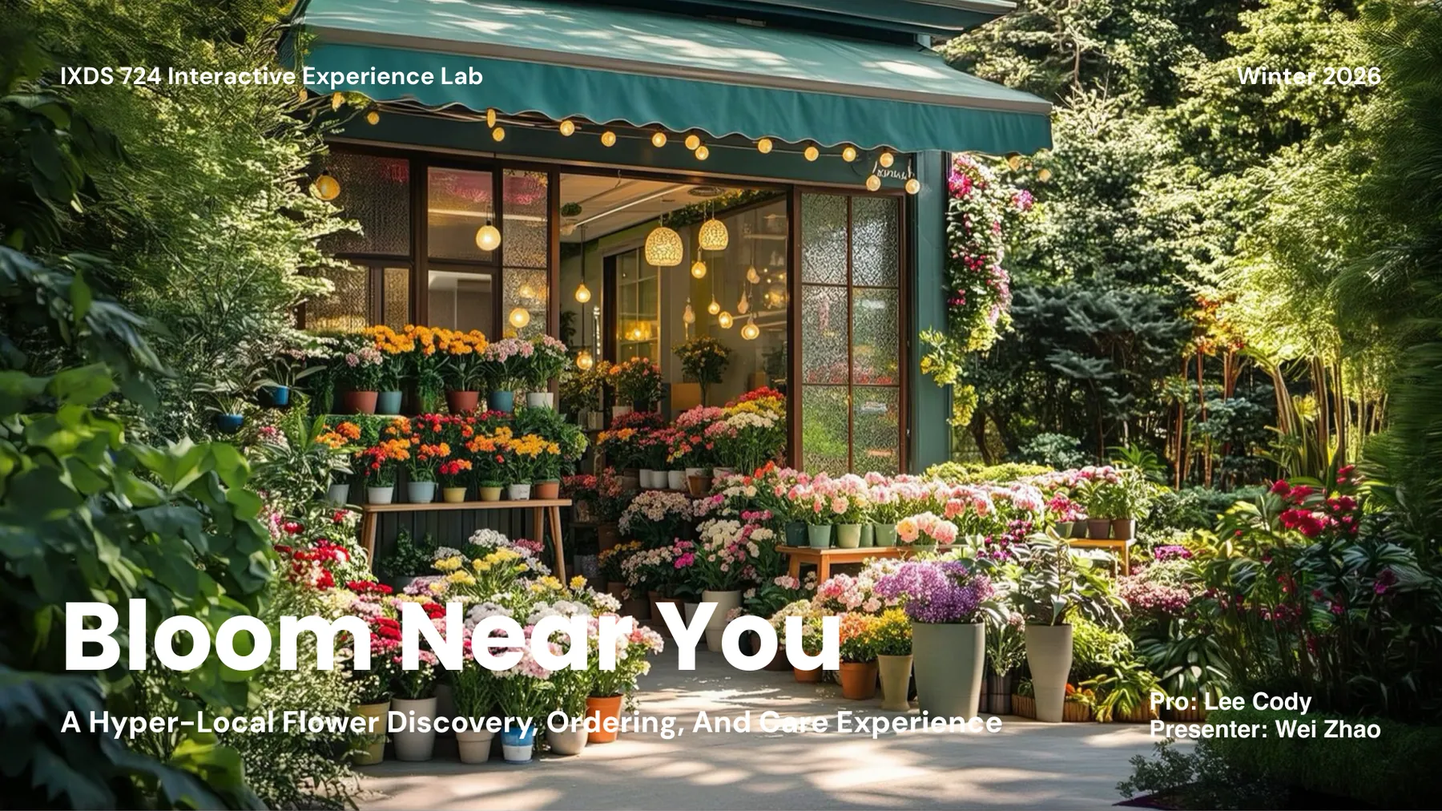
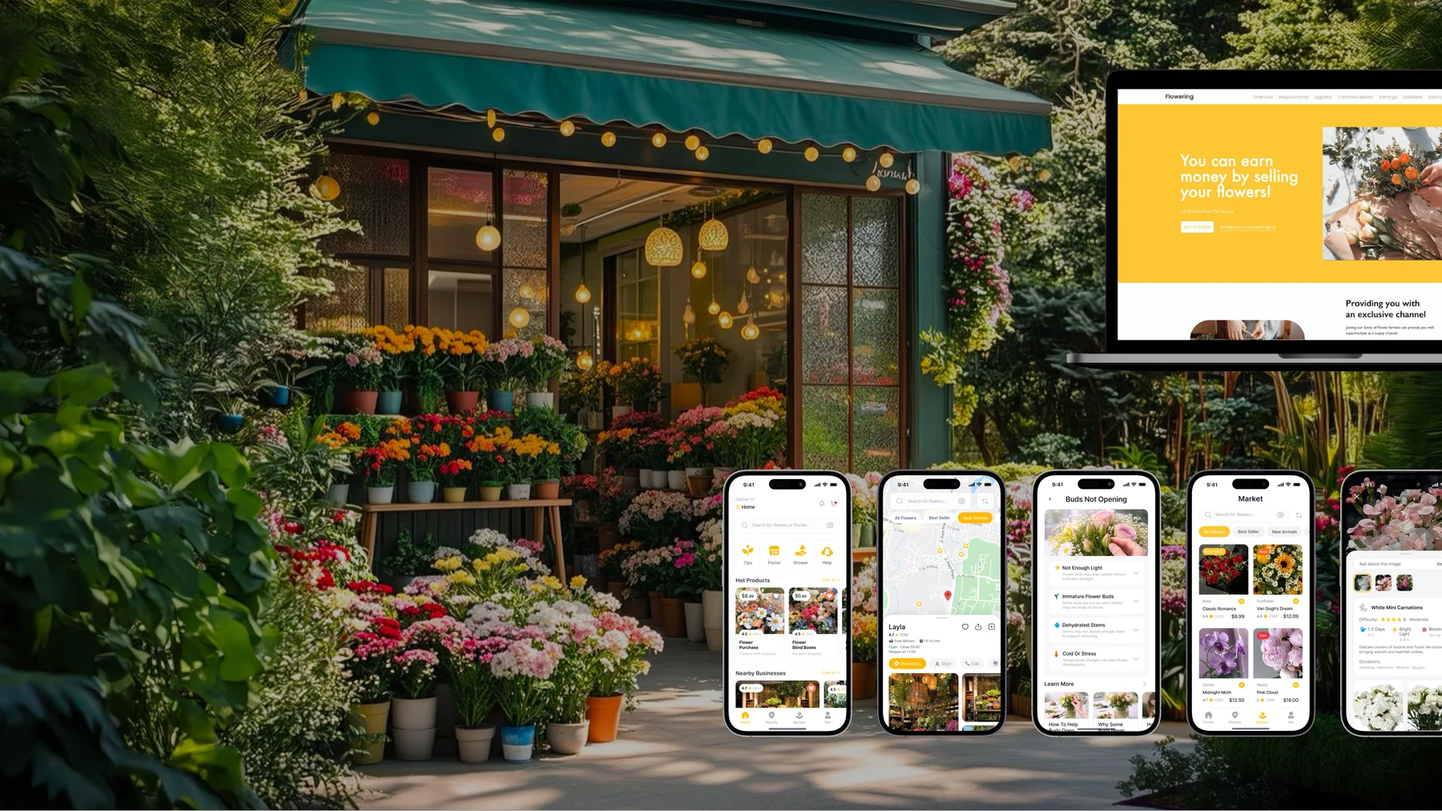
New scene hero images for PetSignals, Closetify and Bloom Near You
Claude-Session: https://claude.ai/code/session_01Dkuoh5qXSQDsoVuafdGbwV

diff --git a/works/closetify.html b/works/closetify.html
@@ -33,7 +33,7 @@ try{if(!sessionStorage.getItem('wz-loaded')&&!matchMedia('(prefers-reduced-motio
 <main class="project">
   <section class="meta"><div class="m-row"><span><span class="l-zh" lang="zh-Hans-CN">项目类型</span><span class="l-en" lang="en">Project type</span></span><span class="span2"><span class="l-zh" lang="zh-Hans-CN">AI 产品 MVP 项目</span><span class="l-en" lang="en">AI product MVP</span></span></div><div class="m-row"><span><span class="l-zh" lang="zh-Hans-CN">项目名称</span><span class="l-en" lang="en">Project name</span></span><span class="span2"><span class="l-zh" lang="zh-Hans-CN">CLOSETIFY｜AI 个性化穿搭助手</span><span class="l-en" lang="en">CLOSETIFY — AI Outfit Assistant</span></span></div><div class="m-row"><span><span class="l-zh" lang="zh-Hans-CN">分类</span><span class="l-en" lang="en">Category</span></span><span class="span2"><span class="tag">[<span class="l-zh" lang="zh-Hans-CN">AI</span><span class="l-en" lang="en">AI</span>]</span><span class="tag">[<span class="l-zh" lang="zh-Hans-CN">交互设计</span><span class="l-en" lang="en">Interaction design</span>]</span><span class="tag">[<span class="l-zh" lang="zh-Hans-CN">MVP</span><span class="l-en" lang="en">MVP</span>]</span></span></div><div class="m-row"><span><span class="l-zh" lang="zh-Hans-CN">时间</span><span class="l-en" lang="en">Date</span></span><span class="span2">11.2025</span></div></section>
   <div class="p-grid">
-    <div class="p-main"><figure class="fig"><img src="../images/closetify/00-hero.webp?v=1794459655" width="1800" height="1009" alt=""></figure><div class="sec-head"><span>01</span><span><span class="l-zh" lang="zh-Hans-CN">研究与情绪旅程</span><span class="l-en" lang="en">Research &amp; emotional journey</span></span><span class="sec-text"></span></div><div class="figs figs-stack"><figure class="fig"><img src="../images/closetify/01.webp?v=1794459651" width="1800" height="1009" alt="" loading="lazy" decoding="async"></figure><figure class="fig"><img src="../images/closetify/02.webp?v=1794459651" width="1800" height="1009" alt="" loading="lazy" decoding="async"></figure><figure class="fig"><img src="../images/closetify/03.webp?v=1794459652" width="1800" height="1009" alt="" loading="lazy" decoding="async"></figure></div><div class="sec-head"><span>02</span><span><span class="l-zh" lang="zh-Hans-CN">构思与原型</span><span class="l-en" lang="en">Ideation &amp; prototyping</span></span><span class="sec-text"></span></div><div class="figs figs-stack"><figure class="fig"><img src="../images/closetify/04.webp?v=1794459652" width="1800" height="1009" alt="" loading="lazy" decoding="async"></figure><figure class="fig"><img src="../images/closetify/05.webp?v=1794459652" width="1800" height="1009" alt="" loading="lazy" decoding="async"></figure><figure class="fig"><img src="../images/closetify/06.webp?v=1794459652" width="1800" height="1009" alt="" loading="lazy" decoding="async"></figure></div><div class="sec-head"><span>03</span><span><span class="l-zh" lang="zh-Hans-CN">可用性测试</span><span class="l-en" lang="en">Usability testing</span></span><span class="sec-text"><span class="l-zh" lang="zh-Hans-CN">三个核心任务中，“添加衣物到数字衣橱”的成功率只有 33%，问题集中在扫描图标含义不清和入口位置。</span><span class="l-en" lang="en">Of three core tasks, &#x27;add items to the wardrobe&#x27; had only a 33% success rate — the scan icon was unclear and the entry hard to find.</span></span></div><div class="figs figs-stack"><figure class="fig"><img src="../images/closetify/07.webp?v=1794459653" width="1800" height="1009" alt="" loading="lazy" decoding="async"></figure><figure class="fig"><img src="../images/closetify/08.webp?v=1794459653" width="1800" height="1009" alt="" loading="lazy" decoding="async"></figure><figure class="fig"><img src="../images/closetify/09.webp?v=1794459653" width="1800" height="1009" alt="" loading="lazy" decoding="async"></figure></div><div class="sec-head"><span>04</span><span><span class="l-zh" lang="zh-Hans-CN">核心功能</span><span class="l-en" lang="en">Key features</span></span><span class="sec-text"></span></div><div class="figs figs-stack"><figure class="fig"><img src="../images/closetify/10.webp?v=1794459653" width="1800" height="1009" alt="" loading="lazy" decoding="async"></figure><figure class="fig"><img src="../images/closetify/11.webp?v=1794459654" width="1800" height="1009" alt="" loading="lazy" decoding="async"></figure><figure class="fig"><img src="../images/closetify/12.webp?v=1794459654" width="1800" height="1009" alt="" loading="lazy" decoding="async"></figure><figure class="fig"><img src="../images/closetify/13.webp?v=1794459654" width="1800" height="1009" alt="" loading="lazy" decoding="async"></figure><figure class="fig"><img src="../images/closetify/14.webp?v=1794459654" width="1800" height="1009" alt="" loading="lazy" decoding="async"></figure></div><div class="sec-head"><span>05</span><span><span class="l-zh" lang="zh-Hans-CN">最终设计与反思</span><span class="l-en" lang="en">Final design &amp; reflection</span></span><span class="sec-text"></span></div><div class="figs figs-stack"><figure class="fig"><img src="../images/closetify/15.webp?v=1794459655" width="1800" height="1009" alt="" loading="lazy" decoding="async"></figure><figure class="fig"><img src="../images/closetify/16.webp?v=1794459655" width="1800" height="1009" alt="" loading="lazy" decoding="async"></figure></div></div>
+    <div class="p-main"><figure class="fig"><img src="../images/closetify/00-hero.webp?v=1794636600" width="1800" height="1012" alt=""></figure><div class="sec-head"><span>01</span><span><span class="l-zh" lang="zh-Hans-CN">研究与情绪旅程</span><span class="l-en" lang="en">Research &amp; emotional journey</span></span><span class="sec-text"></span></div><div class="figs figs-stack"><figure class="fig"><img src="../images/closetify/01.webp?v=1794459651" width="1800" height="1009" alt="" loading="lazy" decoding="async"></figure><figure class="fig"><img src="../images/closetify/02.webp?v=1794459651" width="1800" height="1009" alt="" loading="lazy" decoding="async"></figure><figure class="fig"><img src="../images/closetify/03.webp?v=1794459652" width="1800" height="1009" alt="" loading="lazy" decoding="async"></figure></div><div class="sec-head"><span>02</span><span><span class="l-zh" lang="zh-Hans-CN">构思与原型</span><span class="l-en" lang="en">Ideation &amp; prototyping</span></span><span class="sec-text"></span></div><div class="figs figs-stack"><figure class="fig"><img src="../images/closetify/04.webp?v=1794459652" width="1800" height="1009" alt="" loading="lazy" decoding="async"></figure><figure class="fig"><img src="../images/closetify/05.webp?v=1794459652" width="1800" height="1009" alt="" loading="lazy" decoding="async"></figure><figure class="fig"><img src="../images/closetify/06.webp?v=1794459652" width="1800" height="1009" alt="" loading="lazy" decoding="async"></figure></div><div class="sec-head"><span>03</span><span><span class="l-zh" lang="zh-Hans-CN">可用性测试</span><span class="l-en" lang="en">Usability testing</span></span><span class="sec-text"><span class="l-zh" lang="zh-Hans-CN">三个核心任务中，“添加衣物到数字衣橱”的成功率只有 33%，问题集中在扫描图标含义不清和入口位置。</span><span class="l-en" lang="en">Of three core tasks, &#x27;add items to the wardrobe&#x27; had only a 33% success rate — the scan icon was unclear and the entry hard to find.</span></span></div><div class="figs figs-stack"><figure class="fig"><img src="../images/closetify/07.webp?v=1794459653" width="1800" height="1009" alt="" loading="lazy" decoding="async"></figure><figure class="fig"><img src="../images/closetify/08.webp?v=1794459653" width="1800" height="1009" alt="" loading="lazy" decoding="async"></figure><figure class="fig"><img src="../images/closetify/09.webp?v=1794459653" width="1800" height="1009" alt="" loading="lazy" decoding="async"></figure></div><div class="sec-head"><span>04</span><span><span class="l-zh" lang="zh-Hans-CN">核心功能</span><span class="l-en" lang="en">Key features</span></span><span class="sec-text"></span></div><div class="figs figs-stack"><figure class="fig"><img src="../images/closetify/10.webp?v=1794459653" width="1800" height="1009" alt="" loading="lazy" decoding="async"></figure><figure class="fig"><img src="../images/closetify/11.webp?v=1794459654" width="1800" height="1009" alt="" loading="lazy" decoding="async"></figure><figure class="fig"><img src="../images/closetify/12.webp?v=1794459654" width="1800" height="1009" alt="" loading="lazy" decoding="async"></figure><figure class="fig"><img src="../images/closetify/13.webp?v=1794459654" width="1800" height="1009" alt="" loading="lazy" decoding="async"></figure><figure class="fig"><img src="../images/closetify/14.webp?v=1794459654" width="1800" height="1009" alt="" loading="lazy" decoding="async"></figure></div><div class="sec-head"><span>05</span><span><span class="l-zh" lang="zh-Hans-CN">最终设计与反思</span><span class="l-en" lang="en">Final design &amp; reflection</span></span><span class="sec-text"></span></div><div class="figs figs-stack"><figure class="fig"><img src="../images/closetify/15.webp?v=1794459655" width="1800" height="1009" alt="" loading="lazy" decoding="async"></figure><figure class="fig"><img src="../images/closetify/16.webp?v=1794459655" width="1800" height="1009" alt="" loading="lazy" decoding="async"></figure></div></div>
     <aside class="p-side"><div class="sticky"><p><span class="l-zh" lang="zh-Hans-CN">CLOSETIFY 是一个基于 AI 的个性化穿搭助手，帮助用户根据衣橱单品、天气、日程与个人风格生成更适合当下场景的穿搭建议。项目围绕数字衣橱管理、智能推荐与日常决策体验展开，探索 AI 如何降低用户的选择成本，并将个人审美、生活场景与实用需求整合到更自然的穿搭流程中。</span><span class="l-en" lang="en">CLOSETIFY is an AI outfit assistant that suggests looks based on the user&#x27;s wardrobe, weather, schedule and personal style. Built around digital wardrobe management, smart recommendations and everyday decisions, it explores how AI can lower the cost of choosing and bring taste, context and practical needs into a more natural dressing routine.</span></p></div></aside>
   </div>
   <section class="meta p-foot"><div class="m-row"><span><span class="l-zh" lang="zh-Hans-CN">CREDITS</span><span class="l-en" lang="en">CREDITS</span></span><span class="span2"><span class="l-zh" lang="zh-Hans-CN">产品体验设计｜AI 功能设计｜MVP 原型实现｜界面设计｜研究整合</span><span class="l-en" lang="en">Product design | AI feature design | MVP build | UI | Research synthesis</span></span></div><div class="m-row"><span><span class="l-zh" lang="zh-Hans-CN">项目性质</span><span class="l-en" lang="en">Format</span></span><span class="span2"><span class="l-zh" lang="zh-Hans-CN">课程项目 · 3 人团队</span><span class="l-en" lang="en">Course project · Team of 3</span></span></div><div class="m-row"><span><span class="l-zh" lang="zh-Hans-CN">团队</span><span class="l-en" lang="en">Team</span></span><span class="span2"><span class="l-zh" lang="zh-Hans-CN">Qing Niu、Wei Zhao、Dingrui Yu</span><span class="l-en" lang="en">Qing Niu, Wei Zhao, Dingrui Yu</span></span></div><div class="m-row"><span><span class="l-zh" lang="zh-Hans-CN">课程</span><span class="l-en" lang="en">Course</span></span><span class="span2">IXDS 710 Human Experience Prototyping · SCAD</span></div><div class="m-row"><span><span class="l-zh" lang="zh-Hans-CN">周期</span><span class="l-en" lang="en">Timeline</span></span><span class="span2">2025.09 – 2025.11</span></div><div class="m-row"><span><span class="l-zh" lang="zh-Hans-CN">工具</span><span class="l-en" lang="en">Tools</span></span><span class="span2">Figma · Interviews · Usability testing</span></div><div class="m-row pager"><span></span><span class="span2"><a href="bloom-near-you.html">‹ PREVIOUS</a><a href="mood-candy.html">NEXT ›</a></span></div></section>

diff --git a/works/petsignals.html b/works/petsignals.html
@@ -33,7 +33,7 @@ try{if(!sessionStorage.getItem('wz-loaded')&&!matchMedia('(prefers-reduced-motio
 <main class="project">
   <section class="meta"><div class="m-row"><span><span class="l-zh" lang="zh-Hans-CN">项目类型</span><span class="l-en" lang="en">Project type</span></span><span class="span2"><span class="l-zh" lang="zh-Hans-CN">AI 产品 MVP 项目</span><span class="l-en" lang="en">AI product MVP</span></span></div><div class="m-row"><span><span class="l-zh" lang="zh-Hans-CN">项目名称</span><span class="l-en" lang="en">Project name</span></span><span class="span2"><span class="l-zh" lang="zh-Hans-CN">PETSIGNALS｜AI 宠物身体信号分析助手</span><span class="l-en" lang="en">PETSIGNALS — Translating Pet Body Language</span></span></div><div class="m-row"><span><span class="l-zh" lang="zh-Hans-CN">分类</span><span class="l-en" lang="en">Category</span></span><span class="span2"><span class="tag">[<span class="l-zh" lang="zh-Hans-CN">AI</span><span class="l-en" lang="en">AI</span>]</span><span class="tag">[<span class="l-zh" lang="zh-Hans-CN">LLM</span><span class="l-en" lang="en">LLM</span>]</span><span class="tag">[<span class="l-zh" lang="zh-Hans-CN">交互设计</span><span class="l-en" lang="en">Interaction design</span>]</span><span class="tag">[<span class="l-zh" lang="zh-Hans-CN">数据库</span><span class="l-en" lang="en">Database</span>]</span><span class="tag">[<span class="l-zh" lang="zh-Hans-CN">MVP</span><span class="l-en" lang="en">MVP</span>]</span></span></div><div class="m-row"><span><span class="l-zh" lang="zh-Hans-CN">时间</span><span class="l-en" lang="en">Date</span></span><span class="span2">03.2026</span></div></section>
   <div class="p-grid">
-    <div class="p-main"><figure class="fig"><img src="../images/petsignals/00-hero.webp?v=1794459638" width="1800" height="1012" alt=""></figure><div class="sec-head"><span>01</span><span><span class="l-zh" lang="zh-Hans-CN">问题与机会</span><span class="l-en" lang="en">Problem &amp; opportunity</span></span><span class="sec-text"></span></div><div class="figs figs-stack"><figure class="fig"><img src="../images/petsignals/01.webp?v=1794459637" width="1800" height="1012" alt="" loading="lazy" decoding="async"></figure><figure class="fig"><img src="../images/petsignals/02.webp?v=1794459637" width="1800" height="1012" alt="" loading="lazy" decoding="async"></figure></div><div class="sec-head"><span>02</span><span><span class="l-zh" lang="zh-Hans-CN">核心流程与 MVP 范围</span><span class="l-en" lang="en">Core flow &amp; MVP scope</span></span><span class="sec-text"><span class="l-zh" lang="zh-Hans-CN">先确定必须有的功能：上传照片、AI 分析、情绪标签、该做 / 不该做建议；相机实时识别等放到后续版本。</span><span class="l-en" lang="en">Must-haves first: upload a photo, AI analysis, a mood label and do / don&#x27;t advice; live camera capture comes later.</span></span></div><div class="figs figs-stack"><figure class="fig"><img src="../images/petsignals/03.webp?v=1794459637" width="1800" height="1012" alt="" loading="lazy" decoding="async"></figure><figure class="fig"><img src="../images/petsignals/04.webp?v=1794459637" width="1800" height="1012" alt="" loading="lazy" decoding="async"></figure></div><div class="sec-head"><span>03</span><span><span class="l-zh" lang="zh-Hans-CN">界面迭代</span><span class="l-en" lang="en">Interface iterations</span></span><span class="sec-text"></span></div><div class="figs figs-stack"><figure class="fig"><img src="../images/petsignals/05.webp?v=1794459638" width="1800" height="1012" alt="" loading="lazy" decoding="async"></figure></div><div class="sec-head"><span>04</span><span><span class="l-zh" lang="zh-Hans-CN">系统与实现</span><span class="l-en" lang="en">System &amp; implementation</span></span><span class="sec-text"><span class="l-zh" lang="zh-Hans-CN">Framer 负责界面，Supabase 存储宠物档案和分析历史，LLM 生成情绪标签与行为建议。</span><span class="l-en" lang="en">Framer for the interface, Supabase for pet profiles and history, an LLM for mood labels and behaviour advice.</span></span></div><div class="figs figs-stack"><figure class="fig"><img src="../images/petsignals/06.webp?v=1794459638" width="1800" height="1012" alt="" loading="lazy" decoding="async"></figure><figure class="fig"><img src="../images/petsignals/07.webp?v=1794459638" width="1800" height="1012" alt="" loading="lazy" decoding="async"></figure></div><div class="sec-head"><span>05</span><span><span class="l-zh" lang="zh-Hans-CN">最终界面</span><span class="l-en" lang="en">Final UI</span></span><span class="sec-text"></span></div><div class="figs figs-stack"><figure class="fig"><img src="../images/petsignals/08.webp?v=1794459638" width="1800" height="1012" alt="" loading="lazy" decoding="async"></figure></div></div>
+    <div class="p-main"><figure class="fig"><img src="../images/petsignals/00-hero.webp?v=1794636600" width="1800" height="1012" alt=""></figure><div class="sec-head"><span>01</span><span><span class="l-zh" lang="zh-Hans-CN">问题与机会</span><span class="l-en" lang="en">Problem &amp; opportunity</span></span><span class="sec-text"></span></div><div class="figs figs-stack"><figure class="fig"><img src="../images/petsignals/01.webp?v=1794459637" width="1800" height="1012" alt="" loading="lazy" decoding="async"></figure><figure class="fig"><img src="../images/petsignals/02.webp?v=1794459637" width="1800" height="1012" alt="" loading="lazy" decoding="async"></figure></div><div class="sec-head"><span>02</span><span><span class="l-zh" lang="zh-Hans-CN">核心流程与 MVP 范围</span><span class="l-en" lang="en">Core flow &amp; MVP scope</span></span><span class="sec-text"><span class="l-zh" lang="zh-Hans-CN">先确定必须有的功能：上传照片、AI 分析、情绪标签、该做 / 不该做建议；相机实时识别等放到后续版本。</span><span class="l-en" lang="en">Must-haves first: upload a photo, AI analysis, a mood label and do / don&#x27;t advice; live camera capture comes later.</span></span></div><div class="figs figs-stack"><figure class="fig"><img src="../images/petsignals/03.webp?v=1794459637" width="1800" height="1012" alt="" loading="lazy" decoding="async"></figure><figure class="fig"><img src="../images/petsignals/04.webp?v=1794459637" width="1800" height="1012" alt="" loading="lazy" decoding="async"></figure></div><div class="sec-head"><span>03</span><span><span class="l-zh" lang="zh-Hans-CN">界面迭代</span><span class="l-en" lang="en">Interface iterations</span></span><span class="sec-text"></span></div><div class="figs figs-stack"><figure class="fig"><img src="../images/petsignals/05.webp?v=1794459638" width="1800" height="1012" alt="" loading="lazy" decoding="async"></figure></div><div class="sec-head"><span>04</span><span><span class="l-zh" lang="zh-Hans-CN">系统与实现</span><span class="l-en" lang="en">System &amp; implementation</span></span><span class="sec-text"><span class="l-zh" lang="zh-Hans-CN">Framer 负责界面，Supabase 存储宠物档案和分析历史，LLM 生成情绪标签与行为建议。</span><span class="l-en" lang="en">Framer for the interface, Supabase for pet profiles and history, an LLM for mood labels and behaviour advice.</span></span></div><div class="figs figs-stack"><figure class="fig"><img src="../images/petsignals/06.webp?v=1794459638" width="1800" height="1012" alt="" loading="lazy" decoding="async"></figure><figure class="fig"><img src="../images/petsignals/07.webp?v=1794459638" width="1800" height="1012" alt="" loading="lazy" decoding="async"></figure></div><div class="sec-head"><span>05</span><span><span class="l-zh" lang="zh-Hans-CN">最终界面</span><span class="l-en" lang="en">Final UI</span></span><span class="sec-text"></span></div><div class="figs figs-stack"><figure class="fig"><img src="../images/petsignals/08.webp?v=1794459638" width="1800" height="1012" alt="" loading="lazy" decoding="async"></figure></div></div>
     <aside class="p-side"><div class="sticky"><p><span class="l-zh" lang="zh-Hans-CN">PETSIGNALS 是一个结合 AI 分析与情绪交互的未来宠物陪伴体验项目。项目尝试通过行为识别、情绪反馈与界面交互，探索数字系统如何帮助人类更直观地理解宠物状态，并建立更加自然、情感化的人宠互动关系。</span><span class="l-en" lang="en">PETSIGNALS is a pet companion experience combining AI analysis with emotional interaction. Through behaviour recognition, mood feedback and interface design, it explores how digital systems can help people understand their pets more intuitively and build a more natural, emotional bond.</span></p></div></aside>
   </div>
   <section class="meta p-foot"><div class="m-row"><span><span class="l-zh" lang="zh-Hans-CN">CREDITS</span><span class="l-en" lang="en">CREDITS</span></span><span class="span2"><span class="l-zh" lang="zh-Hans-CN">产品体验设计｜AI 功能设计｜MVP 原型实现｜数据库结构设计｜界面设计</span><span class="l-en" lang="en">Product design | AI feature design | MVP build | Database design | UI</span></span></div><div class="m-row"><span><span class="l-zh" lang="zh-Hans-CN">项目性质</span><span class="l-en" lang="en">Format</span></span><span class="span2"><span class="l-zh" lang="zh-Hans-CN">课程项目 · 个人</span><span class="l-en" lang="en">Course project · Solo</span></span></div><div class="m-row"><span><span class="l-zh" lang="zh-Hans-CN">团队</span><span class="l-en" lang="en">Team</span></span><span class="span2"><span class="l-zh" lang="zh-Hans-CN">个人项目</span><span class="l-en" lang="en">Solo</span></span></div><div class="m-row"><span><span class="l-zh" lang="zh-Hans-CN">课程</span><span class="l-en" lang="en">Course</span></span><span class="span2">IXDS 720 MVP Lab · SCAD</span></div><div class="m-row"><span><span class="l-zh" lang="zh-Hans-CN">周期</span><span class="l-en" lang="en">Timeline</span></span><span class="span2">2026.01 – 2026.03</span></div><div class="m-row"><span><span class="l-zh" lang="zh-Hans-CN">工具</span><span class="l-en" lang="en">Tools</span></span><span class="span2">Framer · Supabase · LLM API (Gemini)</span></div><div class="m-row pager"><span></span><span class="span2"><a href="soilux.html">‹ PREVIOUS</a><a href="iply.html">NEXT ›</a></span></div></section>

diff --git a/works/bloom-near-you.html b/works/bloom-near-you.html
@@ -33,7 +33,7 @@ try{if(!sessionStorage.getItem('wz-loaded')&&!matchMedia('(prefers-reduced-motio
 <main class="project">
   <section class="meta"><div class="m-row"><span><span class="l-zh" lang="zh-Hans-CN">项目类型</span><span class="l-en" lang="en">Project type</span></span><span class="span2"><span class="l-zh" lang="zh-Hans-CN">AI 本地生活服务设计项目</span><span class="l-en" lang="en">AI local-life service design</span></span></div><div class="m-row"><span><span class="l-zh" lang="zh-Hans-CN">项目名称</span><span class="l-en" lang="en">Project name</span></span><span class="span2"><span class="l-zh" lang="zh-Hans-CN">BLOOM NEAR YOU｜AI 鲜花识别与本地花店服务平台</span><span class="l-en" lang="en">BLOOM NEAR YOU — AI Flower ID &amp; Local Florist Platform</span></span></div><div class="m-row"><span><span class="l-zh" lang="zh-Hans-CN">分类</span><span class="l-en" lang="en">Category</span></span><span class="span2"><span class="tag">[<span class="l-zh" lang="zh-Hans-CN">交互设计</span><span class="l-en" lang="en">Interaction design</span>]</span><span class="tag">[<span class="l-zh" lang="zh-Hans-CN">AI</span><span class="l-en" lang="en">AI</span>]</span><span class="tag">[<span class="l-zh" lang="zh-Hans-CN">服务设计</span><span class="l-en" lang="en">Service design</span>]</span></span></div><div class="m-row"><span><span class="l-zh" lang="zh-Hans-CN">时间</span><span class="l-en" lang="en">Date</span></span><span class="span2">03.2026</span></div></section>
   <div class="p-grid">
-    <div class="p-main"><figure class="fig"><img src="../images/bloom-near-you/00-hero.webp?v=1794459651" width="1800" height="1012" alt=""></figure><div class="sec-head"><span>01</span><span><span class="l-zh" lang="zh-Hans-CN">概览与研究</span><span class="l-en" lang="en">Overview &amp; research</span></span><span class="sec-text"></span></div><div class="figs figs-stack"><figure class="fig"><img src="../images/bloom-near-you/01.webp?v=1794459648" width="1800" height="1012" alt="" loading="lazy" decoding="async"></figure><figure class="fig"><img src="../images/bloom-near-you/02.webp?v=1794459648" width="1800" height="1012" alt="" loading="lazy" decoding="async"></figure><figure class="fig"><img src="../images/bloom-near-you/03.webp?v=1794459648" width="1800" height="1012" alt="" loading="lazy" decoding="async"></figure></div><div class="sec-head"><span>02</span><span><span class="l-zh" lang="zh-Hans-CN">服务框架</span><span class="l-en" lang="en">Service framework</span></span><span class="sec-text"></span></div><div class="figs figs-stack"><figure class="fig"><img src="../images/bloom-near-you/04.webp?v=1794459649" width="1800" height="1012" alt="" loading="lazy" decoding="async"></figure><figure class="fig"><img src="../images/bloom-near-you/05.webp?v=1794459649" width="1800" height="1012" alt="" loading="lazy" decoding="async"></figure></div><div class="sec-head"><span>03</span><span><span class="l-zh" lang="zh-Hans-CN">信息架构与迭代</span><span class="l-en" lang="en">IA &amp; iterations</span></span><span class="sec-text"></span></div><div class="figs figs-stack"><figure class="fig"><img src="../images/bloom-near-you/06.webp?v=1794459649" width="1800" height="1012" alt="" loading="lazy" decoding="async"></figure><figure class="fig"><img src="../images/bloom-near-you/07.webp?v=1794459649" width="1800" height="1012" alt="" loading="lazy" decoding="async"></figure></div><div class="sec-head"><span>04</span><span><span class="l-zh" lang="zh-Hans-CN">最终原型</span><span class="l-en" lang="en">Final prototype</span></span><span class="sec-text"></span></div><div class="figs figs-stack"><figure class="fig"><img src="../images/bloom-near-you/08.webp?v=1794459650" width="1800" height="1012" alt="" loading="lazy" decoding="async"></figure><figure class="fig"><img src="../images/bloom-near-you/09.webp?v=1794459650" width="1800" height="1012" alt="" loading="lazy" decoding="async"></figure><figure class="fig"><img src="../images/bloom-near-you/10.webp?v=1794459650" width="1800" height="1012" alt="" loading="lazy" decoding="async"></figure></div></div>
+    <div class="p-main"><figure class="fig"><img src="../images/bloom-near-you/00-hero.webp?v=1794636600" width="1800" height="1012" alt=""></figure><div class="sec-head"><span>01</span><span><span class="l-zh" lang="zh-Hans-CN">概览与研究</span><span class="l-en" lang="en">Overview &amp; research</span></span><span class="sec-text"></span></div><div class="figs figs-stack"><figure class="fig"><img src="../images/bloom-near-you/01.webp?v=1794459648" width="1800" height="1012" alt="" loading="lazy" decoding="async"></figure><figure class="fig"><img src="../images/bloom-near-you/02.webp?v=1794459648" width="1800" height="1012" alt="" loading="lazy" decoding="async"></figure><figure class="fig"><img src="../images/bloom-near-you/03.webp?v=1794459648" width="1800" height="1012" alt="" loading="lazy" decoding="async"></figure></div><div class="sec-head"><span>02</span><span><span class="l-zh" lang="zh-Hans-CN">服务框架</span><span class="l-en" lang="en">Service framework</span></span><span class="sec-text"></span></div><div class="figs figs-stack"><figure class="fig"><img src="../images/bloom-near-you/04.webp?v=1794459649" width="1800" height="1012" alt="" loading="lazy" decoding="async"></figure><figure class="fig"><img src="../images/bloom-near-you/05.webp?v=1794459649" width="1800" height="1012" alt="" loading="lazy" decoding="async"></figure></div><div class="sec-head"><span>03</span><span><span class="l-zh" lang="zh-Hans-CN">信息架构与迭代</span><span class="l-en" lang="en">IA &amp; iterations</span></span><span class="sec-text"></span></div><div class="figs figs-stack"><figure class="fig"><img src="../images/bloom-near-you/06.webp?v=1794459649" width="1800" height="1012" alt="" loading="lazy" decoding="async"></figure><figure class="fig"><img src="../images/bloom-near-you/07.webp?v=1794459649" width="1800" height="1012" alt="" loading="lazy" decoding="async"></figure></div><div class="sec-head"><span>04</span><span><span class="l-zh" lang="zh-Hans-CN">最终原型</span><span class="l-en" lang="en">Final prototype</span></span><span class="sec-text"></span></div><div class="figs figs-stack"><figure class="fig"><img src="../images/bloom-near-you/08.webp?v=1794459650" width="1800" height="1012" alt="" loading="lazy" decoding="async"></figure><figure class="fig"><img src="../images/bloom-near-you/09.webp?v=1794459650" width="1800" height="1012" alt="" loading="lazy" decoding="async"></figure><figure class="fig"><img src="../images/bloom-near-you/10.webp?v=1794459650" width="1800" height="1012" alt="" loading="lazy" decoding="async"></figure></div></div>
     <aside class="p-side"><div class="sticky"><p><span class="l-zh" lang="zh-Hans-CN">BLOOM NEAR YOU 是一个结合 AI 鲜花识别、本地花店发现、线上购买与售后养护服务的数字平台。用户可以通过拍照识别鲜花品种，获取 AI 分析结果与对应养护技巧；也可以在线浏览附近花店，通过导航前往线下门店，或选择 1–3 天网购配送、当天外卖送达与提前预约服务。项目还支持用户针对已有鲜花问题进行搜索，并通过联网 AI 分析获得更具体的养护建议，帮助用户在购买前后都能更好地理解、选择和照护鲜花。</span><span class="l-en" lang="en">BLOOM NEAR YOU is a digital platform combining AI flower identification, local florist discovery, online ordering and after-sales care. Users can photograph a flower to identify it and get AI care tips, browse nearby florists and navigate to a shop, or choose 1–3 day delivery, same-day delivery or advance booking. They can also search specific flower problems and get connected AI advice — helping them understand, choose and care for flowers before and after buying.</span></p></div></aside>
   </div>
   <section class="meta p-foot"><div class="m-row"><span><span class="l-zh" lang="zh-Hans-CN">CREDITS</span><span class="l-en" lang="en">CREDITS</span></span><span class="span2"><span class="l-zh" lang="zh-Hans-CN">用户研究｜AI 功能设计｜服务流程设计｜信息架构｜界面设计｜体验策略</span><span class="l-en" lang="en">User research | AI feature design | Service design | IA | UI | Experience strategy</span></span></div><div class="m-row"><span><span class="l-zh" lang="zh-Hans-CN">项目性质</span><span class="l-en" lang="en">Format</span></span><span class="span2"><span class="l-zh" lang="zh-Hans-CN">课程项目 · 个人</span><span class="l-en" lang="en">Course project · Solo</span></span></div><div class="m-row"><span><span class="l-zh" lang="zh-Hans-CN">团队</span><span class="l-en" lang="en">Team</span></span><span class="span2"><span class="l-zh" lang="zh-Hans-CN">个人项目</span><span class="l-en" lang="en">Solo</span></span></div><div class="m-row"><span><span class="l-zh" lang="zh-Hans-CN">课程</span><span class="l-en" lang="en">Course</span></span><span class="span2">IXDS 724 Interactive Experience Lab · SCAD</span></div><div class="m-row"><span><span class="l-zh" lang="zh-Hans-CN">周期</span><span class="l-en" lang="en">Timeline</span></span><span class="span2">2026.01 – 2026.03</span></div><div class="m-row"><span><span class="l-zh" lang="zh-Hans-CN">工具</span><span class="l-en" lang="en">Tools</span></span><span class="span2">Figma · Service blueprint · Heuristic evaluation</span></div><div class="m-row pager"><span></span><span class="span2"><a href="iply.html">‹ PREVIOUS</a><a href="closetify.html">NEXT ›</a></span></div></section>
